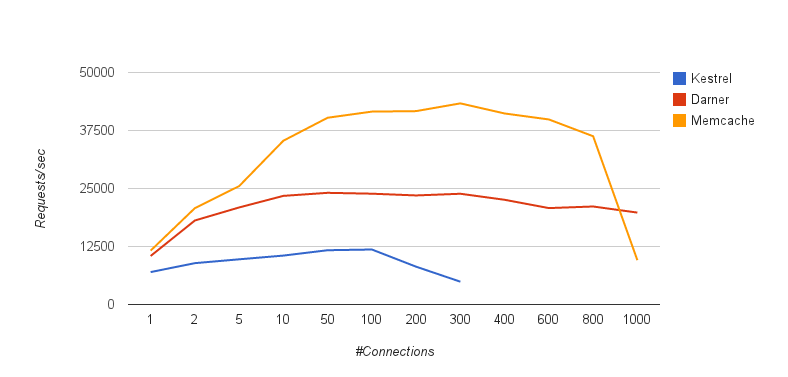
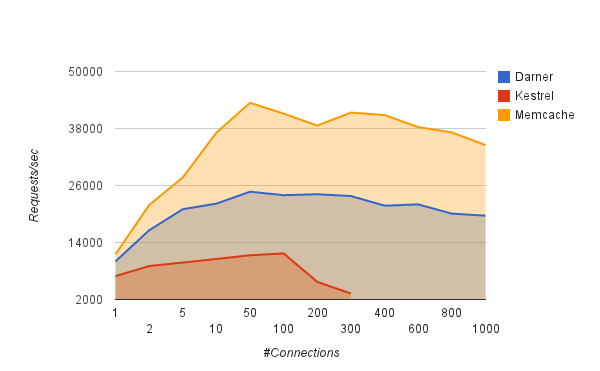
to be fair, rerun benchmarks to confirm lower chunk_size doesn't impact figures

diff --git a/docs/benchmarks.md b/docs/benchmarks.md
@@ -11,40 +11,40 @@ kestrel benchmark at 300 concurrent connections - anything higher caused connect
 ![Queue Flood Benchmark](/wavii/darner/raw/master/docs/images/bench_queue_flood.png)
 
 ```
-ubuntu@domU-12-31-39-0E-0C-72:~/darner$ bench/flood.sh
+ubuntu@domU-12-31-39-0E-0C-72:~/darner$ bench/flood.sh 
 warming up kestrel...done.
-kestrel 1 conns: 6987.88 #/sec (mean)
-kestrel 2 conns: 8910.67 #/sec (mean)
-kestrel 5 conns: 9739.47 #/sec (mean)
-kestrel 10 conns: 10541.9 #/sec (mean)
-kestrel 50 conns: 11696.6 #/sec (mean)
-kestrel 100 conns: 11851.2 #/sec (mean)
-kestrel 200 conns: 8147.63 #/sec (mean)
-kestrel 300 conns: 4916.06 #/sec (mean)
-darner 1 conns: 10458.1 #/sec (mean)
-darner 2 conns: 18104.5 #/sec (mean)
-darner 5 conns: 20913.9 #/sec (mean)
-darner 10 conns: 23411 #/sec (mean)
-darner 50 conns: 24067.4 #/sec (mean)
-darner 100 conns: 23880.6 #/sec (mean)
-darner 200 conns: 23504.5 #/sec (mean)
-darner 300 conns: 23866.3 #/sec (mean)
-darner 400 conns: 22568.3 #/sec (mean)
-darner 600 conns: 20777.1 #/sec (mean)
-darner 800 conns: 21121.6 #/sec (mean)
-darner 1000 conns: 19807.9 #/sec (mean)
-memcache 1 conns: 11610.4 #/sec (mean)
-memcache 2 conns: 20768.4 #/sec (mean)
-memcache 5 conns: 25510.2 #/sec (mean)
-memcache 10 conns: 35298.3 #/sec (mean)
-memcache 50 conns: 40249.5 #/sec (mean)
-memcache 100 conns: 41571.4 #/sec (mean)
-memcache 200 conns: 41677.8 #/sec (mean)
-memcache 300 conns: 43346.3 #/sec (mean)
-memcache 400 conns: 41169.2 #/sec (mean)
-memcache 600 conns: 39880.4 #/sec (mean)
-memcache 800 conns: 36264.7 #/sec (mean)
-memcache 1000 conns: 9547.91 #/sec (mean)
+kestrel     1 conns: 6919.94 #/sec (mean)
+kestrel     2 conns: 9042 #/sec (mean)
+kestrel     5 conns: 9775.17 #/sec (mean)
+kestrel    10 conns: 10526.9 #/sec (mean)
+kestrel    50 conns: 11318 #/sec (mean)
+kestrel   100 conns: 11693.2 #/sec (mean)
+kestrel   200 conns: 5696.71 #/sec (mean)
+kestrel   300 conns: 3260.36 #/sec (mean)
+darner      1 conns: 10032.1 #/sec (mean)
+darner      2 conns: 16572.8 #/sec (mean)
+darner      5 conns: 21006.2 #/sec (mean)
+darner     10 conns: 22182.8 #/sec (mean)
+darner     50 conns: 24697.5 #/sec (mean)
+darner    100 conns: 23960.7 #/sec (mean)
+darner    200 conns: 24160.4 #/sec (mean)
+darner    300 conns: 23781.2 #/sec (mean)
+darner    400 conns: 21755.7 #/sec (mean)
+darner    600 conns: 22019.2 #/sec (mean)
+darner    800 conns: 20076.3 #/sec (mean)
+darner   1000 conns: 19648.3 #/sec (mean)
+memcache    1 conns: 11516.1 #/sec (mean)
+memcache    2 conns: 21879.4 #/sec (mean)
+memcache    5 conns: 27700.8 #/sec (mean)
+memcache   10 conns: 37126.4 #/sec (mean)
+memcache   50 conns: 43412.2 #/sec (mean)
+memcache  100 conns: 41126.9 #/sec (mean)
+memcache  200 conns: 38610 #/sec (mean)
+memcache  300 conns: 41347.9 #/sec (mean)
+memcache  400 conns: 40833 #/sec (mean)
+memcache  600 conns: 38299.5 #/sec (mean)
+memcache  800 conns: 37167.8 #/sec (mean)
+memcache 1000 conns: 34506.6 #/sec (mean)
 ```
 
 # Fairness
@@ -113,20 +113,20 @@ free memory.  Instead it's important for the throughput to flatten out as the ba
 ![Queue Packing Benchmark](/wavii/darner/raw/master/docs/images/bench_queue_packing.png)
 
 ```
-ubuntu@domU-12-31-39-0E-0C-72:~/darner$ bench/packing.sh
+ubuntu@domU-12-31-39-0E-0C-72:~/darner$ bench/packing.sh 
 warming up kestrel...done.
-kestrel 0 sets: 9700.73 #/sec (mean)
-kestrel 4096 sets: 10039.7 #/sec (mean)
-kestrel 16384 sets: 9595.09 #/sec (mean)
-kestrel 65536 sets: 9581.76 #/sec (mean)
-kestrel 262144 sets: 8785.42 #/sec (mean)
-kestrel 1048576 sets: 8916.23 #/sec (mean)
-kestrel 4194304 sets: 8460.59 #/sec (mean)
-darner 0 sets: 17124.8 #/sec (mean)
-darner 4096 sets: 14646.6 #/sec (mean)
-darner 16384 sets: 12122.7 #/sec (mean)
-darner 65536 sets: 10717 #/sec (mean)
-darner 262144 sets: 10970.3 #/sec (mean)
-darner 1048576 sets: 11596.9 #/sec (mean)
-darner 4194304 sets: 11017.5 #/sec (mean)
+kestrel       0 sets: 9777.08 #/sec (mean)
+kestrel    4096 sets: 9490.37 #/sec (mean)
+kestrel   16384 sets: 9777.56 #/sec (mean)
+kestrel   65536 sets: 9478.22 #/sec (mean)
+kestrel  262144 sets: 8689.99 #/sec (mean)
+kestrel 1048576 sets: 8735.15 #/sec (mean)
+kestrel 4194304 sets: 8467.04 #/sec (mean)
+darner        0 sets: 16380 #/sec (mean)
+darner     4096 sets: 14951 #/sec (mean)
+darner    16384 sets: 12043.1 #/sec (mean)
+darner    65536 sets: 10691.8 #/sec (mean)
+darner   262144 sets: 10810.8 #/sec (mean)
+darner  1048576 sets: 11152 #/sec (mean)
+darner  4194304 sets: 10980.6 #/sec (mean)
 ```
